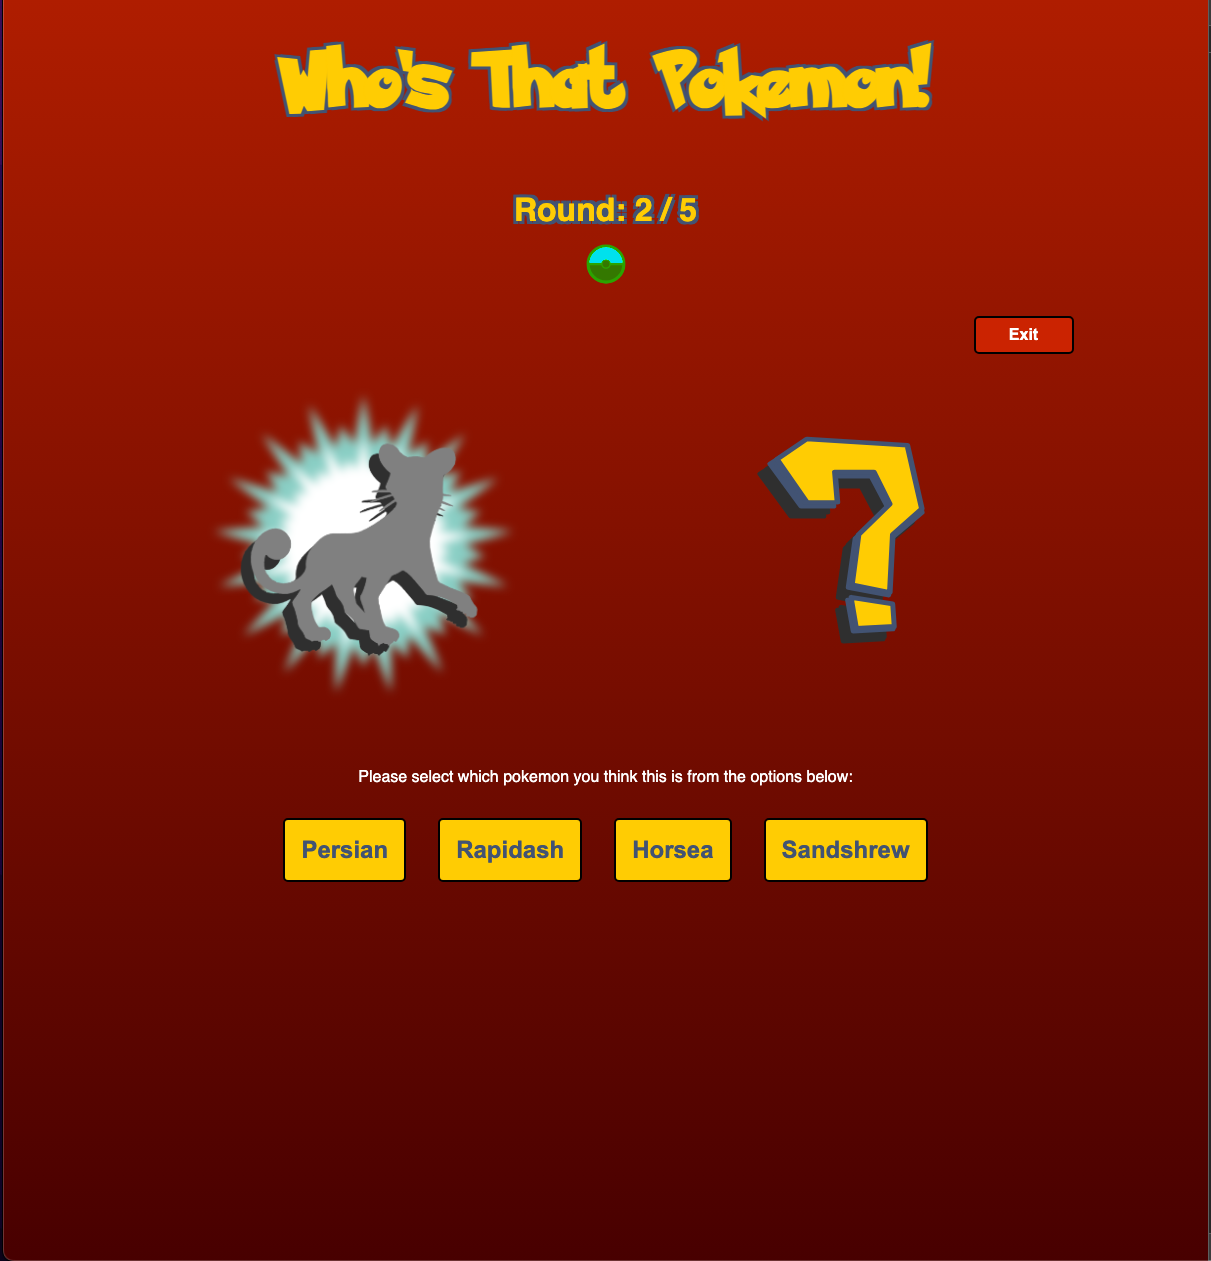
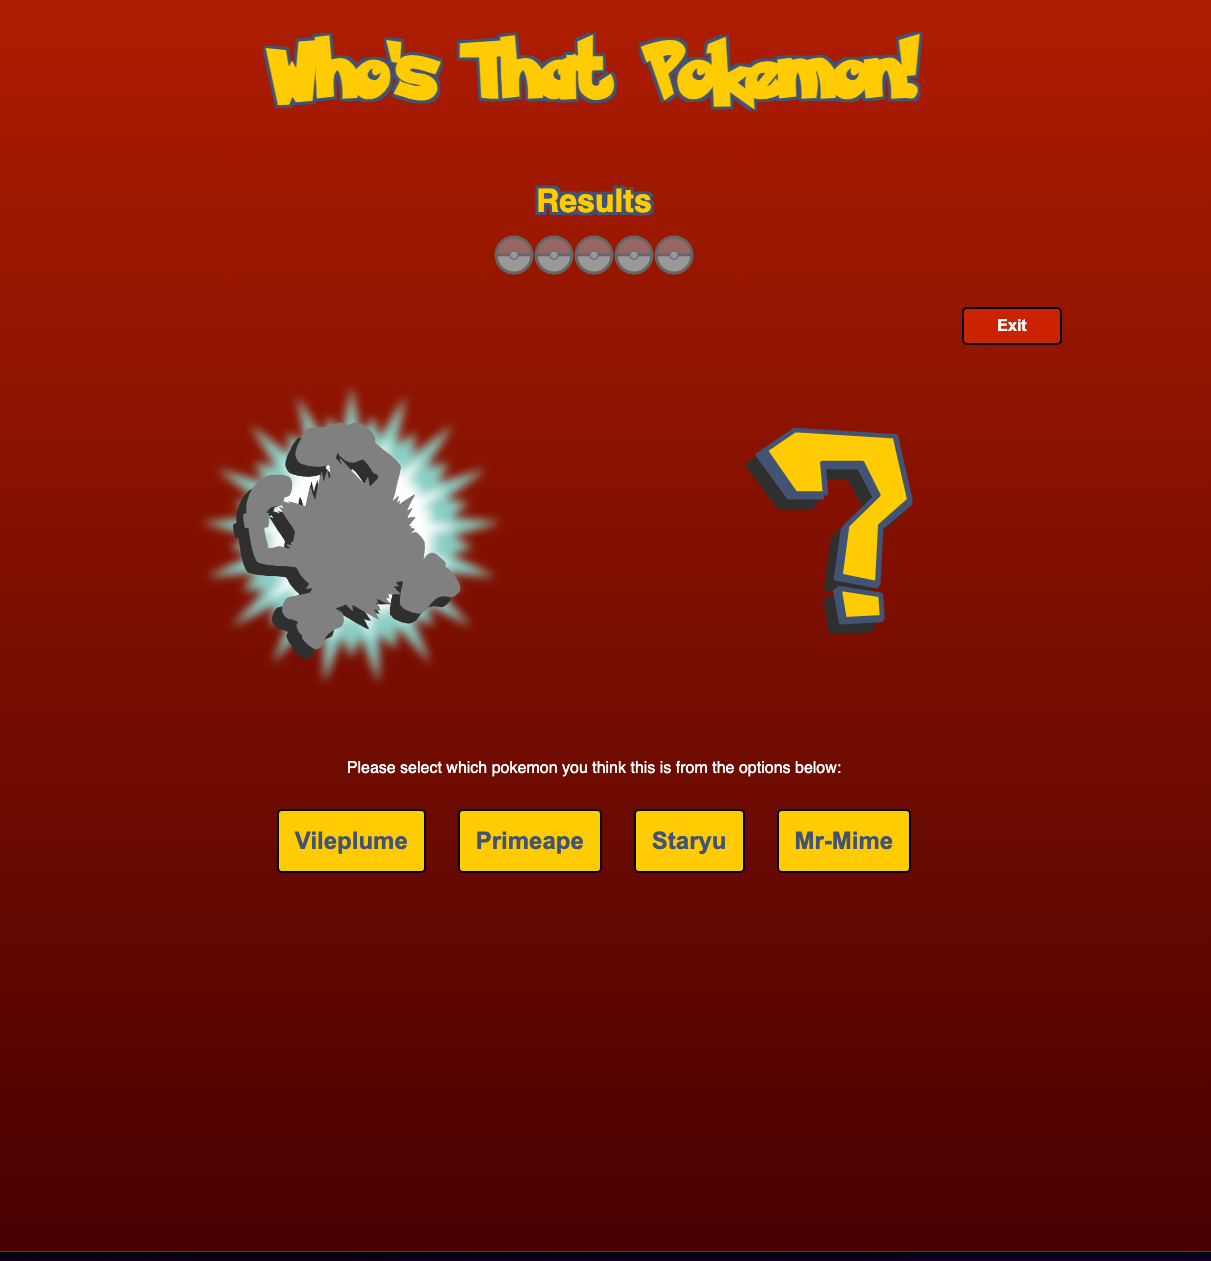
Changed score to show pokeballs for all rounds

diff --git a/src/app/game/game-score/game-score.component.ts b/src/app/game/game-score/game-score.component.ts
@@ -1,6 +1,6 @@
 import { Component, computed, inject, input } from '@angular/core';
 import { GameService } from '../../../shared/services/game.service';
-import { Result } from '../game.model';
+import { Result, ResultCheck } from '../game.model';
 
 @Component({
   selector: 'app-game-score',
@@ -24,4 +24,17 @@ export class GameScoreComponent {
   get maxRounds() {
     return this.gameService.getMaxRounds();
   }
+
+  paddedRoundResults = computed(() => {
+    const paddedResults: ResultCheck[] = [];
+    for (let index = 0; index < this.maxRounds; index++) {
+      if(index < this.allResults().length){
+        const result = this.allResults()[index]
+        paddedResults.push(result.gameResult)
+      } else {
+        paddedResults.push(undefined)
+      }
+    }
+    return paddedResults;
+  })
 }

diff --git a/src/app/game/game-score/game-score.component.html b/src/app/game/game-score/game-score.component.html
@@ -1,11 +1,12 @@
 <section>
-    <h1>{{"Round: " + currentRound + " / " + maxRounds}}</h1>
+    <!-- <h1>{{"Round: " + currentRound + " / " + maxRounds}}</h1> -->
+     <h1>Results</h1>
     <div class="score-section">
         <!-- <h2>Score: <span class="game-score">{{ score + " / " + maxScore }}</span></h2> -->
-        <!-- <h2>Results: </h2> -->
+        <!-- <h1>Results: </h1> -->
         <div class="score-balls">
-            @for (result of (allResults()); track $index) {
-                @switch (result.gameResult) {
+            @for (result of (paddedRoundResults()); track $index) {
+                @switch (result) {
                     @case (undefined) {
                     <img class="score-pokeball none" src="/images/pokeball.svg" />
                     }

diff --git a/src/app/game/game.model.ts b/src/app/game/game.model.ts
@@ -10,7 +10,9 @@ export type GameResult = {
     result: boolean;
 }
 
+export type ResultCheck = "success" | "fail" | undefined;
+
 export type Result = {
-    gameResult: "success" | "fail" | undefined;
-    pokemonId: number
+    gameResult: ResultCheck;
+    pokemonId: number;
 }
